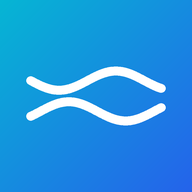
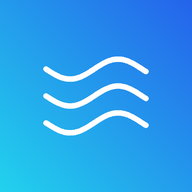
Add files via upload

diff --git a/index.html b/index.html
@@ -253,7 +253,7 @@
 
     </style>
 </head>
-<body class="bg-white text-slate-900 dark:bg-ocean-950 dark:text-slate-100 min-h-screen pb-24">
+<body class="bg-white text-slate-900 dark:bg-ocean-950 dark:text-slate-100 min-h-screen pb-36 md:pb-24">
 
     <!-- Toast Notification System -->
     <div id="toast-container" class="fixed top-5 right-5 z-50 space-y-3 pointer-events-none"></div>
@@ -263,8 +263,8 @@
         <div class="max-w-7xl mx-auto flex justify-between items-center">
             <!-- Brand Logo -->
             <div class="flex items-center space-x-3">
-                <div class="h-10 w-10 rounded-xl bg-gradient-to-tr from-cyan-500 to-blue-600 flex items-center justify-center text-white font-bold shadow-lg shadow-cyan-500/20">
-                    <i class="fa-solid fa-water text-lg"></i>
+                <div class="h-10 w-10 rounded-xl overflow-hidden shadow-lg shadow-cyan-500/20 flex-shrink-0">
+                    <img src="icons/icon-192.png" alt="Abyss" class="h-full w-full object-cover">
                 </div>
                 <div>
                     <h1 class="font-extrabold text-xl tracking-tight bg-gradient-to-r from-slate-900 to-cyan-600 dark:from-white dark:to-cyan-400 bg-clip-text text-transparent">ABYSS</h1>
@@ -1242,6 +1242,15 @@
                 <button onclick="filterCritters('Others')" id="cf-others" class="critter-pill px-4 py-1.5 rounded-full text-xs font-semibold bg-slate-100 dark:bg-ocean-900/20 text-slate-600 dark:text-slate-400 hover:text-slate-800 dark:hover:text-slate-300 flex-shrink-0 transition-all">Others</button>
             </div>
 
+            <!-- Rarity Filter (applies on top of the category filter above) -->
+            <div class="flex items-center space-x-2 overflow-x-auto w-full">
+                <span class="text-[10px] font-mono-custom uppercase tracking-widest text-slate-600 dark:text-slate-500 flex-shrink-0">Rarity:</span>
+                <button onclick="filterCrittersByRarity('all')" id="cr-all" class="critter-rarity-pill px-3 py-1 rounded-full text-[11px] font-semibold bg-cyan-500 text-white flex-shrink-0 transition-all">All</button>
+                <button onclick="filterCrittersByRarity('Common')" id="cr-common" class="critter-rarity-pill px-3 py-1 rounded-full text-[11px] font-semibold bg-slate-100 dark:bg-ocean-900/20 text-slate-600 dark:text-slate-400 hover:text-slate-800 dark:hover:text-slate-300 flex-shrink-0 transition-all">Common</button>
+                <button onclick="filterCrittersByRarity('Epic')" id="cr-epic" class="critter-rarity-pill px-3 py-1 rounded-full text-[11px] font-semibold bg-slate-100 dark:bg-ocean-900/20 text-slate-600 dark:text-slate-400 hover:text-slate-800 dark:hover:text-slate-300 flex-shrink-0 transition-all">Epic</button>
+                <button onclick="filterCrittersByRarity('Ultra-Rare')" id="cr-ultrarare" class="critter-rarity-pill px-3 py-1 rounded-full text-[11px] font-semibold bg-slate-100 dark:bg-ocean-900/20 text-slate-600 dark:text-slate-400 hover:text-slate-800 dark:hover:text-slate-300 flex-shrink-0 transition-all">Ultra-Rare</button>
+            </div>
+
             <!-- Critter Grid -->
             <div id="critterdex-grid" class="grid grid-cols-1 sm:grid-cols-2 md:grid-cols-3 lg:grid-cols-4 gap-6">
                 <!-- Dynamic High Fidelity Cards or Silhouette Locked Cards -->
@@ -2072,26 +2081,26 @@
     </div>
 
     <!-- Bottom Mobile Nav Indicator -->
-    <div class="md:hidden fixed bottom-0 left-0 right-0 z-40 bg-white/95 dark:bg-ocean-950/90 border-t border-slate-200 dark:border-ocean-900/20 backdrop-blur-lg flex justify-around py-2.5">
-        <button onclick="switchTab('dashboard')" class="mobile-nav-btn flex flex-col items-center space-y-1 text-cyan-400" id="mob-btn-dashboard">
-            <i class="fa-solid fa-chart-line text-lg"></i>
-            <span class="text-[9px] font-semibold uppercase">Dashboard</span>
+    <div class="md:hidden fixed bottom-0 left-0 right-0 z-40 bg-white/95 dark:bg-ocean-950/90 border-t border-slate-200 dark:border-ocean-900/20 backdrop-blur-lg flex justify-around pt-[15px] pb-[max(15px,env(safe-area-inset-bottom))]">
+        <button onclick="switchTab('dashboard')" class="mobile-nav-btn flex flex-col items-center space-y-1.5 text-cyan-400" id="mob-btn-dashboard">
+            <i class="fa-solid fa-chart-line text-[27px]"></i>
+            <span class="text-[13px] font-semibold uppercase">Dashboard</span>
         </button>
-        <button onclick="switchTab('logs')" class="mobile-nav-btn flex flex-col items-center space-y-1 text-slate-600 dark:text-slate-500" id="mob-btn-logs">
-            <i class="fa-solid fa-book-open text-lg"></i>
-            <span class="text-[9px] font-semibold uppercase">Logbook</span>
+        <button onclick="switchTab('logs')" class="mobile-nav-btn flex flex-col items-center space-y-1.5 text-slate-600 dark:text-slate-500" id="mob-btn-logs">
+            <i class="fa-solid fa-book-open text-[27px]"></i>
+            <span class="text-[13px] font-semibold uppercase">Logbook</span>
         </button>
-        <button onclick="prepareNewDiveLogTab()" class="mobile-nav-btn flex flex-col items-center space-y-1 text-slate-600 dark:text-slate-500" id="mob-btn-add-log">
-            <i class="fa-solid fa-circle-plus text-lg"></i>
-            <span class="text-[9px] font-semibold uppercase">Log Dive</span>
+        <button onclick="prepareNewDiveLogTab()" class="mobile-nav-btn flex flex-col items-center space-y-1.5 text-slate-600 dark:text-slate-500" id="mob-btn-add-log">
+            <i class="fa-solid fa-circle-plus text-[27px]"></i>
+            <span class="text-[13px] font-semibold uppercase">Log Dive</span>
         </button>
-        <button onclick="switchTab('critterdex')" class="mobile-nav-btn flex flex-col items-center space-y-1 text-slate-600 dark:text-slate-500" id="mob-btn-critterdex">
-            <i class="fa-solid fa-fish text-lg"></i>
-            <span class="text-[9px] font-semibold uppercase">AquaDex</span>
+        <button onclick="switchTab('critterdex')" class="mobile-nav-btn flex flex-col items-center space-y-1.5 text-slate-600 dark:text-slate-500" id="mob-btn-critterdex">
+            <i class="fa-solid fa-fish text-[27px]"></i>
+            <span class="text-[13px] font-semibold uppercase">AquaDex</span>
         </button>
-        <button onclick="switchTab('profile')" class="mobile-nav-btn flex flex-col items-center space-y-1 text-slate-600 dark:text-slate-500" id="mob-btn-profile">
-            <i class="fa-solid fa-id-card text-lg"></i>
-            <span class="text-[9px] font-semibold uppercase">Profile</span>
+        <button onclick="switchTab('profile')" class="mobile-nav-btn flex flex-col items-center space-y-1.5 text-slate-600 dark:text-slate-500" id="mob-btn-profile">
+            <i class="fa-solid fa-id-card text-[27px]"></i>
+            <span class="text-[13px] font-semibold uppercase">Profile</span>
         </button>
     </div>
 
@@ -2698,6 +2707,7 @@
         let state = {
             dives: [],
             critterFilter: 'all',
+            critterRarityFilter: 'all',
             currentTab: 'dashboard',
             isDark: true,
             editingLogId: null,
@@ -3186,8 +3196,8 @@
                     <!-- Top half: certificate card -->
                     <div style="background:linear-gradient(135deg, #093054 0%, #061e38 50%, #031b2e 100%);padding:36px 36px 40px;position:relative;">
                         <div style="display:flex;align-items:center;gap:10px;margin-bottom:24px;">
-                            <div style="height:32px;width:32px;border-radius:10px;background:linear-gradient(135deg,#06b6d4,#2563eb);display:flex;align-items:center;justify-content:center;">
-                                <i class="fa-solid fa-water" style="font-size:14px;color:#fff;"></i>
+                            <div style="height:32px;width:32px;border-radius:10px;overflow:hidden;flex-shrink:0;">
+                                <img src="icons/icon-192.png" style="width:100%;height:100%;object-fit:cover;" />
                             </div>
                             <span style="font-size:16px;color:#22d3ee;font-family:'JetBrains Mono',monospace;text-transform:uppercase;letter-spacing:0.08em;">Diver Profile</span>
                         </div>
@@ -3355,6 +3365,8 @@
             if (!dive) return '';
             const profile = state.diverProfile || {};
             const name = profile.name || 'Explorer';
+            const org = profile.org || 'PADI';
+            const level = profile.level || 'Open Water Diver';
             const avatar = profile.avatar || null;
             const avatarHtml = avatar
                 ? `<img src="${avatar}" style="width:100%;height:100%;object-fit:cover;" />`
@@ -3369,13 +3381,19 @@
 
             return `
                 <div id="dive-log-card-inner" style="width:380px;background:#0a1f30;font-family:'Inter',sans-serif;padding:22px;color:#e6f1fb;">
-                    <div style="display:flex;justify-content:space-between;align-items:center;margin-bottom:16px;">
-                        <div style="width:30px;height:30px;border-radius:9px;background:linear-gradient(135deg,#06b6d4,#2563eb);display:flex;align-items:center;justify-content:center;">
-                            <i class="fa-solid fa-water" style="font-size:14px;color:#fff;"></i>
+                    <div style="display:flex;justify-content:space-between;align-items:flex-start;margin-bottom:16px;">
+                        <div style="width:30px;height:30px;border-radius:9px;overflow:hidden;flex-shrink:0;">
+                            <img src="icons/icon-192.png" style="width:100%;height:100%;object-fit:cover;" />
                         </div>
-                        <div style="display:flex;align-items:center;gap:8px;">
-                            <span style="font-size:13px;color:#9fc9e0;">${name}</span>
-                            <div style="width:28px;height:28px;border-radius:50%;background:#1d4e6e;border:1px solid #22d3ee;display:flex;align-items:center;justify-content:center;overflow:hidden;flex-shrink:0;">${avatarHtml}</div>
+                        <div style="display:flex;flex-direction:column;align-items:flex-end;gap:6px;">
+                            <div style="display:flex;align-items:center;gap:8px;">
+                                <span style="font-size:13px;color:#9fc9e0;">${name}</span>
+                                <div style="width:28px;height:28px;border-radius:50%;background:#1d4e6e;border:1px solid #22d3ee;display:flex;align-items:center;justify-content:center;overflow:hidden;flex-shrink:0;">${avatarHtml}</div>
+                            </div>
+                            <div style="display:flex;gap:6px;font-family:'JetBrains Mono',monospace;">
+                                <span style="padding:2px 8px;border-radius:6px;font-size:9px;font-weight:800;text-transform:uppercase;letter-spacing:0.04em;background:rgba(255,255,255,0.1);color:#67e8f9;border:1px solid rgba(34,211,238,0.4);">${org}</span>
+                                <span style="padding:2px 8px;border-radius:6px;font-size:9px;font-weight:800;text-transform:uppercase;letter-spacing:0.04em;background:#06b6d4;color:#fff;">${level}</span>
+                            </div>
                         </div>
                     </div>
                     <p style="font-size:14px;font-weight:700;margin:0;color:#fff;">${dive.site || 'Dive Site'}</p>
@@ -4283,11 +4301,11 @@
 
             // Reset mobile buttons
             document.querySelectorAll('.mobile-nav-btn').forEach(btn => {
-                btn.className = "mobile-nav-btn flex flex-col items-center space-y-1 text-slate-600 dark:text-slate-500";
+                btn.className = "mobile-nav-btn flex flex-col items-center space-y-1.5 text-slate-600 dark:text-slate-500";
             });
             const activeMobBtn = document.getElementById(`mob-btn-${tabId}`);
             if (activeMobBtn) {
-                activeMobBtn.className = "mobile-nav-btn flex flex-col items-center space-y-1 text-cyan-400";
+                activeMobBtn.className = "mobile-nav-btn flex flex-col items-center space-y-1.5 text-cyan-400";
             }
 
             // Handle Leaflet Map recreation if switching back to dashboard
@@ -6851,7 +6869,7 @@
                         }
                     });
                 } else {
-                    crittersCardList = `<p class="text-xs text-slate-600 dark:text-slate-500 italic py-2">No marine life observations logged during this run.</p>`;
+                    crittersCardList = `<p class="text-xs text-slate-600 dark:text-slate-500 italic py-2">No marine life observations logged during this dive.</p>`;
                 }
 
                 const maxDepthText = dive.maxDepth !== null ? `${dive.maxDepth}m` : '--';
@@ -6990,10 +7008,6 @@
                                     <i class="fa-solid fa-id-badge"></i>
                                     <span>Create Dive Log Card</span>
                                 </button>
-                                <button onclick="openLogDetailModal('${dive.id}')" class="px-4 py-2 rounded-xl bg-cyan-500/10 hover:bg-cyan-500/20 text-cyan-400 text-xs font-semibold flex items-center space-x-2 transition-colors">
-                                    <i class="fa-solid fa-file-lines"></i>
-                                    <span>View Full Log Details</span>
-                                </button>
                             </div>
                         </div>
                     </details>
@@ -7046,7 +7060,7 @@
                    <p class="text-[10px] font-mono-custom text-cyan-400 mt-1">Pinned: ${dive.latitude.toFixed(5)}, ${dive.longitude.toFixed(5)}</p>`
                 : `<p class="text-[11px] text-slate-600 dark:text-slate-500 italic mt-3">No exact location pinned for this dive — only the country/territory above was recorded.</p>`;
 
-            let crittersHtml = '<p class="text-xs text-slate-600 dark:text-slate-500 italic py-2">No marine life observations logged during this run.</p>';
+            let crittersHtml = '<p class="text-xs text-slate-600 dark:text-slate-500 italic py-2">No marine life observations logged during this dive.</p>';
             if (dive.critters && dive.critters.length > 0) {
                 crittersHtml = `<div class="grid grid-cols-1 sm:grid-cols-2 gap-2 mt-2">` + dive.critters.map(c => {
                     const template = CRITTER_DATABASE[c.id];
@@ -7344,6 +7358,28 @@
             renderCritterdex();
         }
 
+        // Rarity filter — applies on top of the category filter above, across
+        // every AquaDex category (not scoped to whichever category is active).
+        function filterCrittersByRarity(rarity) {
+            state.critterRarityFilter = rarity;
+
+            document.querySelectorAll('.critter-rarity-pill').forEach(btn => {
+                btn.className = "critter-rarity-pill px-3 py-1 rounded-full text-[11px] font-semibold bg-slate-100 dark:bg-ocean-900/20 text-slate-600 dark:text-slate-400 hover:text-slate-800 dark:hover:text-slate-300 flex-shrink-0 transition-all";
+            });
+
+            let activeId = "cr-all";
+            if (rarity === "Common") activeId = "cr-common";
+            else if (rarity === "Epic") activeId = "cr-epic";
+            else if (rarity === "Ultra-Rare") activeId = "cr-ultrarare";
+
+            const activeBtn = document.getElementById(activeId);
+            if (activeBtn) {
+                activeBtn.className = "critter-rarity-pill px-3 py-1 rounded-full text-[11px] font-semibold bg-cyan-500 text-white flex-shrink-0 transition-all";
+            }
+
+            renderCritterdex();
+        }
+
         function getUnlockedSpeciesCount() {
             let count = 0;
             Object.keys(CRITTER_DATABASE).forEach(critterId => {
@@ -7477,9 +7513,11 @@
 
             grid.innerHTML = '';
 
-            // Filter species by current active category tab
+            // Filter species by current active category tab and rarity filter
             const filteredSpecies = Object.values(CRITTER_DATABASE).filter(species => {
-                return state.critterFilter === 'all' || species.tag === state.critterFilter;
+                const matchesCategory = state.critterFilter === 'all' || species.tag === state.critterFilter;
+                const matchesRarity = state.critterRarityFilter === 'all' || species.rarity === state.critterRarityFilter;
+                return matchesCategory && matchesRarity;
             });
 
             // Sort logic: Discovered (unlocked) species on top, then sort alphabetically by name

diff --git a/service-worker.js b/service-worker.js
@@ -8,7 +8,7 @@
  * otherwise returning visitors keep getting the old cached copy.
  */
 
-const CACHE_VERSION = 'abyss-shell-v27';
+const CACHE_VERSION = 'abyss-shell-v28';
 
 // Keep this list in sync with every static asset the app needs to boot offline.
 const APP_SHELL_FILES = [

diff --git a/CHANGELOG.md b/CHANGELOG.md
@@ -1,5 +1,15 @@
 # Changelog
 
+## 260724-v28
+
+- **Dive Log Card**: now shows Certification Organisation and Certificate Level badges under the diver name, matching the credential info already on the Share Diver Profile card.
+- **Logbook**: removed the "View Full Log Details" button from the expanded dive card (the full details view is still reachable via the eye icon on the collapsed card header).
+- **Wording fix**: "No marine life observations logged during this run." → "...during this dive." (Logbook and AquaDex empty states).
+- **AquaDex**: added a rarity filter (All / Common / Epic / Ultra-Rare) that applies across every category alongside the existing category filter.
+- **Mobile bottom nav bar enlarged ~50%** (padding, icons, labels) for easier tapping on phones, with iOS safe-area support so it's no longer cropped by the home-indicator area on notched devices.
+- **App icon replaced app-wide**: the favicon, PWA home-screen icons, and every in-app brand mark (header logo, Share Diver Profile card, Dive Log Card) now use the new wave icon design, so the browser tab icon and the in-app logo are identical everywhere.
+- Service worker cache bumped (`abyss-shell-v27` → `abyss-shell-v28`) to ship all of the above.
+
 ## 260724-v27
 
 - **Dive Log Card redesigned**: the depth-over-time graph is now the exact same Chart.js chart used in the Logbook's expanded preview (depth increasing downward, gridlines, axis titles), with a depth value labeled every 2m. Card enlarged so nothing overlaps, the "ABYSS" wordmark was dropped from the header (logo mark only), extra breathing room was added between the site/date line and the graph, and a "Generated by Abyss — Personal Dive Log" footer was added to match the Share Diver Profile card.
